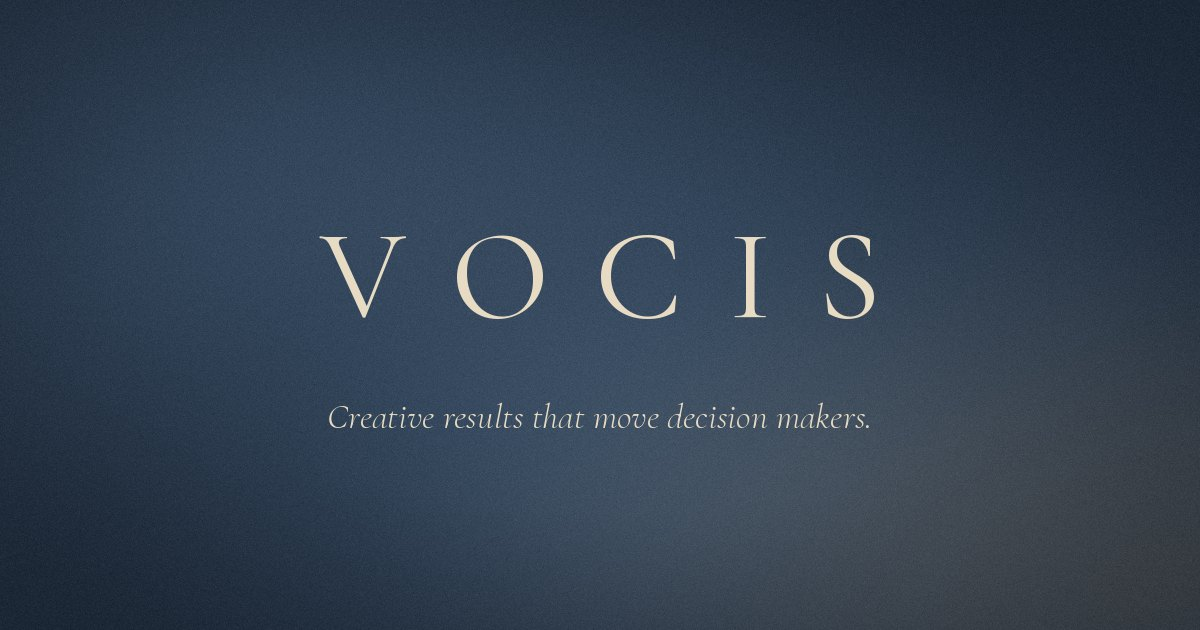
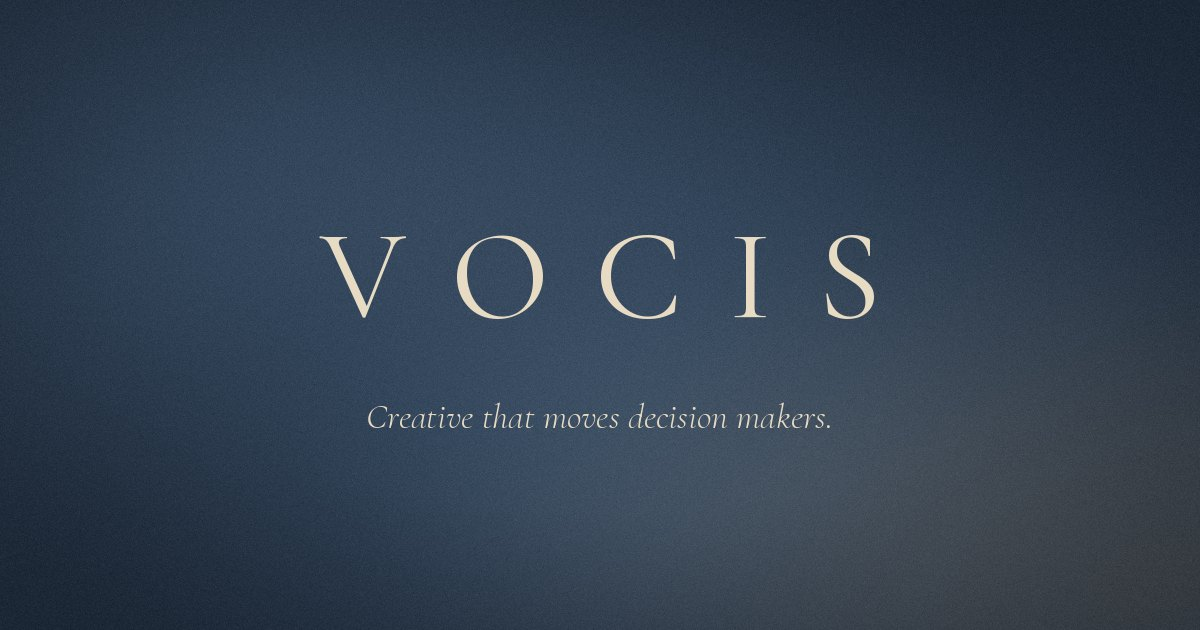
Hero tagline: Creative that moves decision makers
Claude-Session: https://claude.ai/code/session_016Jkeywds2umzKRcfEbPAcW

Changed region(s): [[0.2775, 0.6333, 0.7092, 0.6937]]

diff --git a/public/index.html b/public/index.html
@@ -4,7 +4,7 @@
   <meta charset="utf-8">
   <meta name="viewport" content="width=device-width, initial-scale=1, viewport-fit=cover">
   <title>VOCIS</title>
-  <meta name="description" content="VOCIS is a studio for policy, communications and economic impact. Creative results that move decision makers.">
+  <meta name="description" content="VOCIS is a studio for policy, communications and economic impact. Creative that moves decision makers.">
   <meta name="theme-color" content="#1C2735">
   <meta name="color-scheme" content="dark">
   <link rel="canonical" href="https://vocisgroup.com/">
@@ -13,14 +13,14 @@
   <meta property="og:url" content="https://vocisgroup.com/">
   <meta property="og:site_name" content="VOCIS">
   <meta property="og:title" content="VOCIS">
-  <meta property="og:description" content="Creative results that move decision makers.">
+  <meta property="og:description" content="Creative that moves decision makers.">
   <meta property="og:image" content="https://vocisgroup.com/assets/img/og-image.jpg">
   <meta property="og:image:width" content="1200">
   <meta property="og:image:height" content="630">
   <meta property="og:image:alt" content="The VOCIS wordmark on a dark navy field of soft light.">
   <meta name="twitter:card" content="summary_large_image">
   <meta name="twitter:title" content="VOCIS">
-  <meta name="twitter:description" content="Creative results that move decision makers.">
+  <meta name="twitter:description" content="Creative that moves decision makers.">
   <meta name="twitter:image" content="https://vocisgroup.com/assets/img/og-image.jpg">
 
   <link rel="icon" href="/favicon.ico" sizes="32x32">
@@ -54,7 +54,7 @@
     <div class="hero__veil" aria-hidden="true"></div>
     <div class="hero__content">
       <h1 class="hero__mark wm">VOCIS</h1>
-      <p class="hero__line">Creative results that move decision makers.</p>
+      <p class="hero__line">Creative that moves decision makers.</p>
       <p class="hero__focus label">Policy <span aria-hidden="true">·</span> Communications <span aria-hidden="true">·</span> Economic impact</p>
     </div>
     <p class="hero__coords label" aria-label="Washington, DC and Palo Alto">38.9072° N 77.0369° W <span aria-hidden="true">·</span> 37.4419° N 122.1430° W</p>
